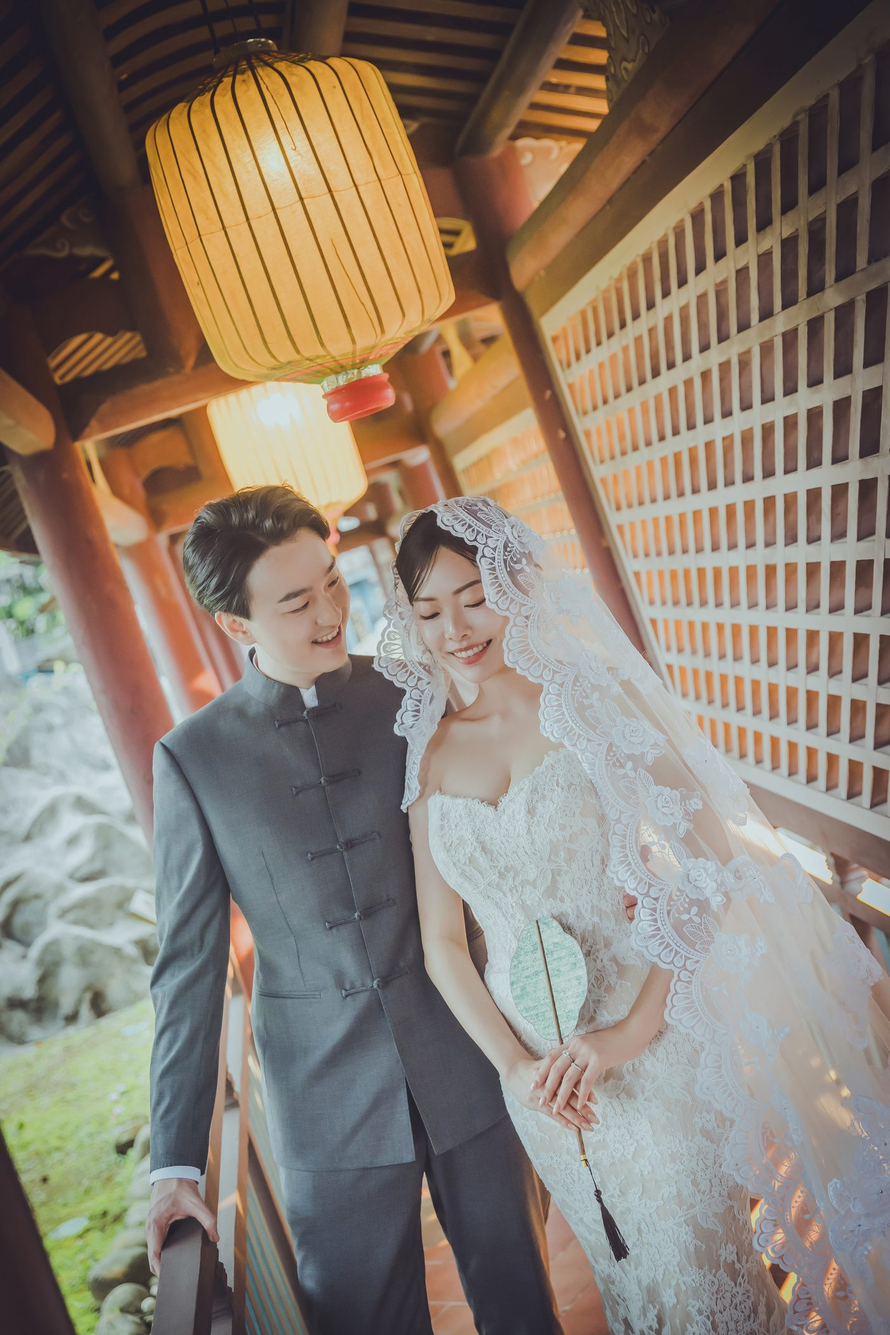
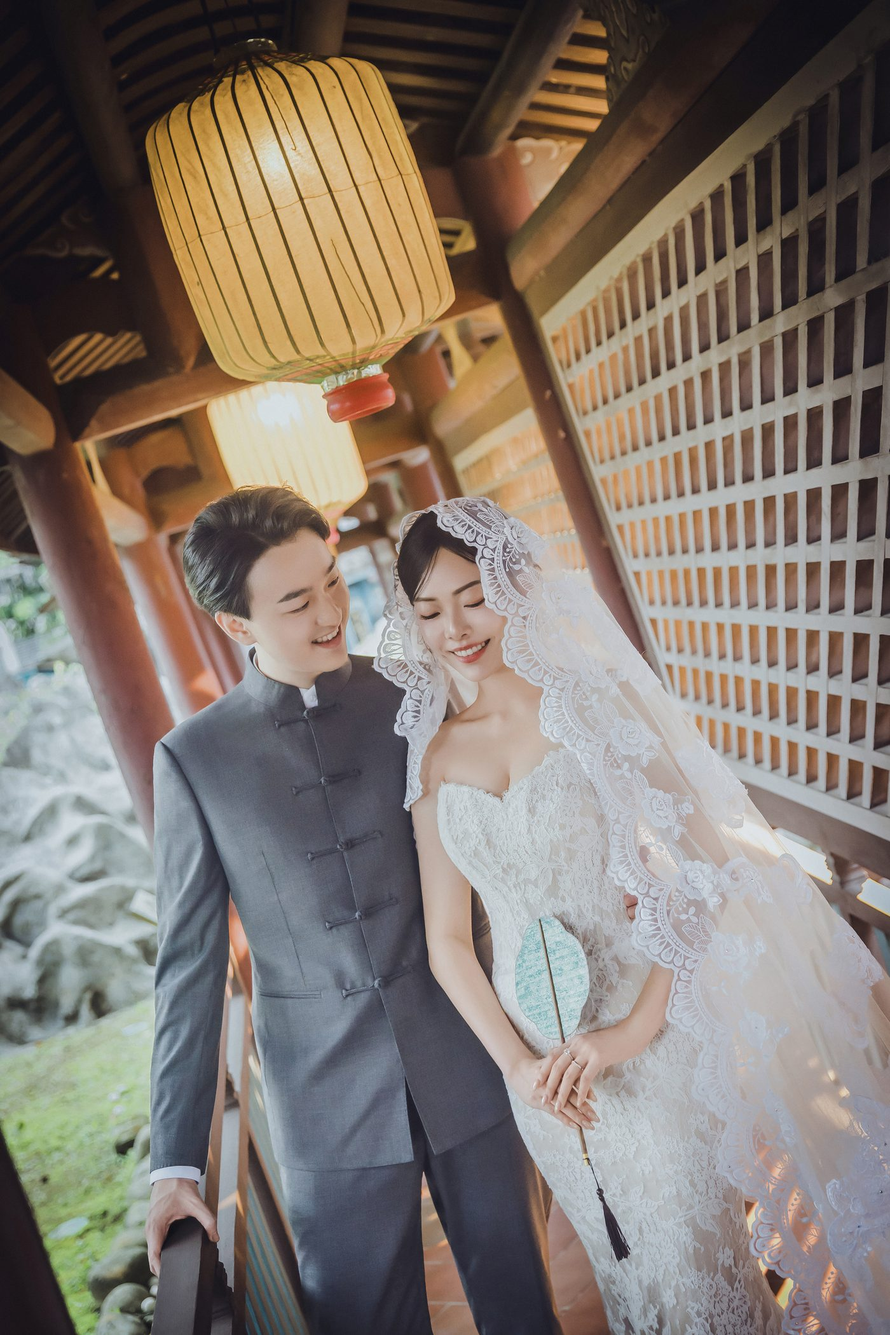
換上新版 9344、婚宴資訊與出席回覆間加直式照片帶、相片展示新增 5 張

diff --git a/index.html b/index.html
@@ -68,6 +68,10 @@
     <p class="details-note reveal">戶外證婚儀式將於婚宴同場地的戶外草皮舉行，誠摯邀請您一同見證這重要的時刻。</p>
   </section>
 
+  <div class="photo-band band-0 protect">
+    <img src="assets/p5.jpg" width="1400" height="2100" alt="對聯前相依而立的新郎新娘" loading="lazy">
+  </div>
+
   <section class="section rsvp" id="rsvp">
     <p class="section-label reveal">出席回覆</p>
     <p class="rsvp-copy reveal">
@@ -151,12 +155,17 @@
       <figure class="g-item l"><img src="assets/gallery/g05.jpg" width="1600" height="1067" alt="校史館階梯上相擁" loading="lazy" draggable="false"></figure>
       <figure class="g-item p"><img src="assets/gallery/g06.jpg" width="1067" height="1600" alt="額頭相貼的特寫" loading="lazy" draggable="false"></figure>
       <figure class="g-item l"><img src="assets/gallery/g20.jpg" width="1600" height="1067" alt="與家人合影" loading="lazy" draggable="false"></figure>
+      <figure class="g-item p"><img src="assets/gallery/g21.jpg" width="1067" height="1600" alt="對聯前並肩而坐" loading="lazy" draggable="false"></figure>
+      <figure class="g-item p"><img src="assets/gallery/g22.jpg" width="1067" height="1600" alt="對聯前的新娘" loading="lazy" draggable="false"></figure>
       <figure class="g-item p"><img src="assets/gallery/g16.jpg" width="1067" height="1600" alt="拱形窗前擁抱" loading="lazy" draggable="false"></figure>
       <figure class="g-item p"><img src="assets/gallery/g14.jpg" width="1067" height="1600" alt="淺藍禮服與灰色西裝" loading="lazy" draggable="false"></figure>
       <figure class="g-item p"><img src="assets/gallery/g15.jpg" width="1067" height="1600" alt="窗邊相依" loading="lazy" draggable="false"></figure>
       <figure class="g-item p"><img src="assets/gallery/g17.jpg" width="1067" height="1600" alt="新郎手捧花束" loading="lazy" draggable="false"></figure>
       <figure class="g-item p"><img src="assets/gallery/g18.jpg" width="1067" height="1600" alt="地板上相視而笑" loading="lazy" draggable="false"></figure>
       <figure class="g-item l"><img src="assets/gallery/g19.jpg" width="1600" height="1067" alt="房間裡的新娘與新郎" loading="lazy" draggable="false"></figure>
+      <figure class="g-item p"><img src="assets/gallery/g23.jpg" width="1067" height="1600" alt="新郎輕握新娘的手" loading="lazy" draggable="false"></figure>
+      <figure class="g-item l"><img src="assets/gallery/g24.jpg" width="1600" height="1067" alt="新郎的灰色西裝側影" loading="lazy" draggable="false"></figure>
+      <figure class="g-item l"><img src="assets/gallery/g25.jpg" width="1600" height="1067" alt="窗邊的新娘與藍色禮服" loading="lazy" draggable="false"></figure>
       <figure class="g-item p"><img src="assets/gallery/g09.jpg" width="1067" height="1600" alt="花藝背景前合影" loading="lazy" draggable="false"></figure>
       <figure class="g-item p"><img src="assets/gallery/g10.jpg" width="1067" height="1600" alt="花藝背景前依偎" loading="lazy" draggable="false"></figure>
       <figure class="g-item l"><img src="assets/gallery/g11.jpg" width="1600" height="1067" alt="台北夜景前合影" loading="lazy" draggable="false"></figure>

diff --git a/styles.css b/styles.css
@@ -707,3 +707,19 @@ body{
   .date{margin-top:1rem;}
   .scroll-cue{height:2.25rem; margin-top:1.5rem;}
 }
+
+/* ---------- 婚宴資訊與出席回覆之間的直式照片帶 ---------- */
+.band-0 img{object-position:50% 40%;}
+@media (min-width:701px){
+  .photo-band.band-0{
+    display:flex;
+    justify-content:center;
+    background:var(--paper);
+  }
+  .photo-band.band-0 img{
+    width:auto;
+    height:min(88vh, 56rem);
+    aspect-ratio:2/3;
+    max-height:none;
+  }
+}
